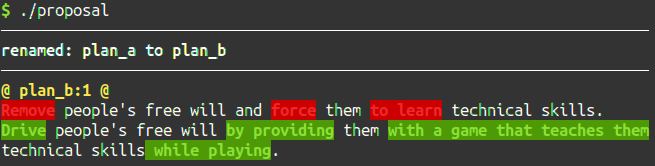
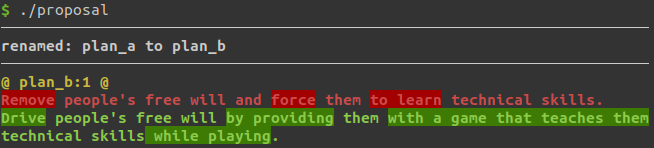
Updated `proposal` image.

diff --git a/proposal/src/main.rs b/proposal/src/main.rs
@@ -15,32 +15,41 @@ fn main() {
     let mut t = term::stdout().unwrap();
 
     print_sub(&mut t, "Remove");
-    print!(" people's free will and ");
+    t.fg(203).unwrap();
+    print!("{}", style(" people's free will and ").bold());
     print_sub(&mut t, "force");
-    print!(" them ");
+    t.fg(203).unwrap();
+    print!("{}", style(" them ").bold());
     print_sub(&mut t, "to learn");
-    println!(" technical skills.");
+    t.fg(203).unwrap();
+    println!("{}", style(" technical skills.").bold());
+    t.reset().unwrap();
 
     print_add(&mut t, "Drive");
-    print!(" people's free will ");
+    t.fg(155).unwrap();
+    print!("{}", style(" people's free will ").bold());
     print_add(&mut t, "by providing");
-    print!(" them ");
+    t.fg(155).unwrap();
+    print!("{}", style(" them ").bold());
     print_add(&mut t, "with a game that teaches them");
-    print!(" technical skills");
+    t.fg(155).unwrap();
+    print!("{}", style(" technical skills").bold());
     print_add(&mut t, " while playing");
-    println!(".");
+    t.fg(155).unwrap();
+    println!("{}", style(".").bold());
+    t.reset().unwrap();
 }
 
 fn print_add(t: &mut Box<StdoutTerminal>, text: &str) {
-    t.fg(color::BRIGHT_GREEN).unwrap();
     t.bg(color::GREEN).unwrap();
+    t.fg(155).unwrap();
     write!(t, "{}", style(text).bold()).unwrap();
     t.reset().unwrap();
 }
 
 fn print_sub(t: &mut Box<StdoutTerminal>, text: &str) {
-    t.fg(color::BRIGHT_RED).unwrap();
     t.bg(color::RED).unwrap();
+    t.fg(203).unwrap();
     write!(t, "{}", style(text).bold()).unwrap();
     t.reset().unwrap();
 }
